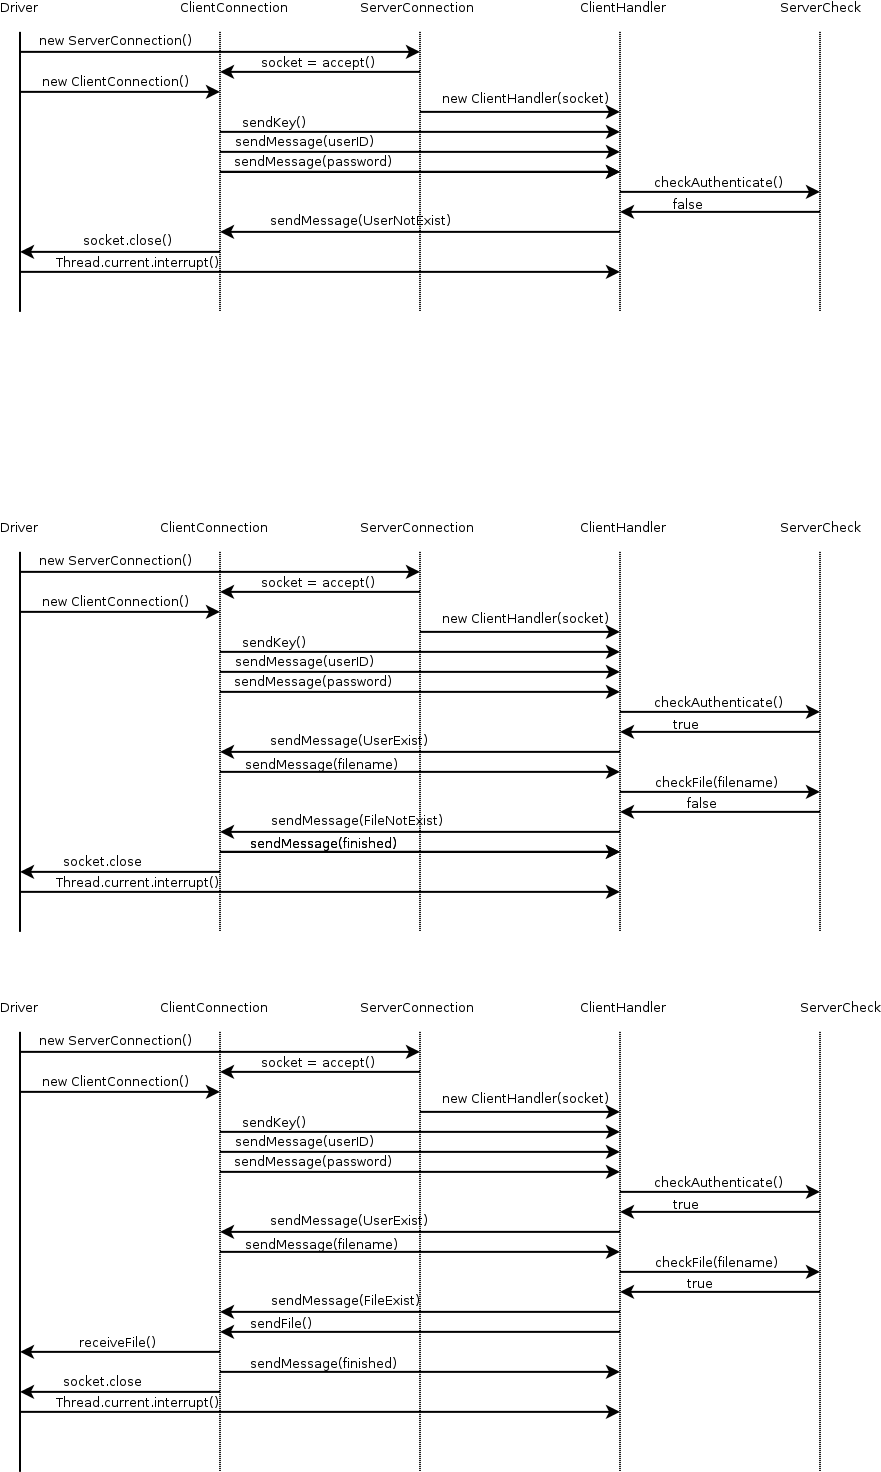
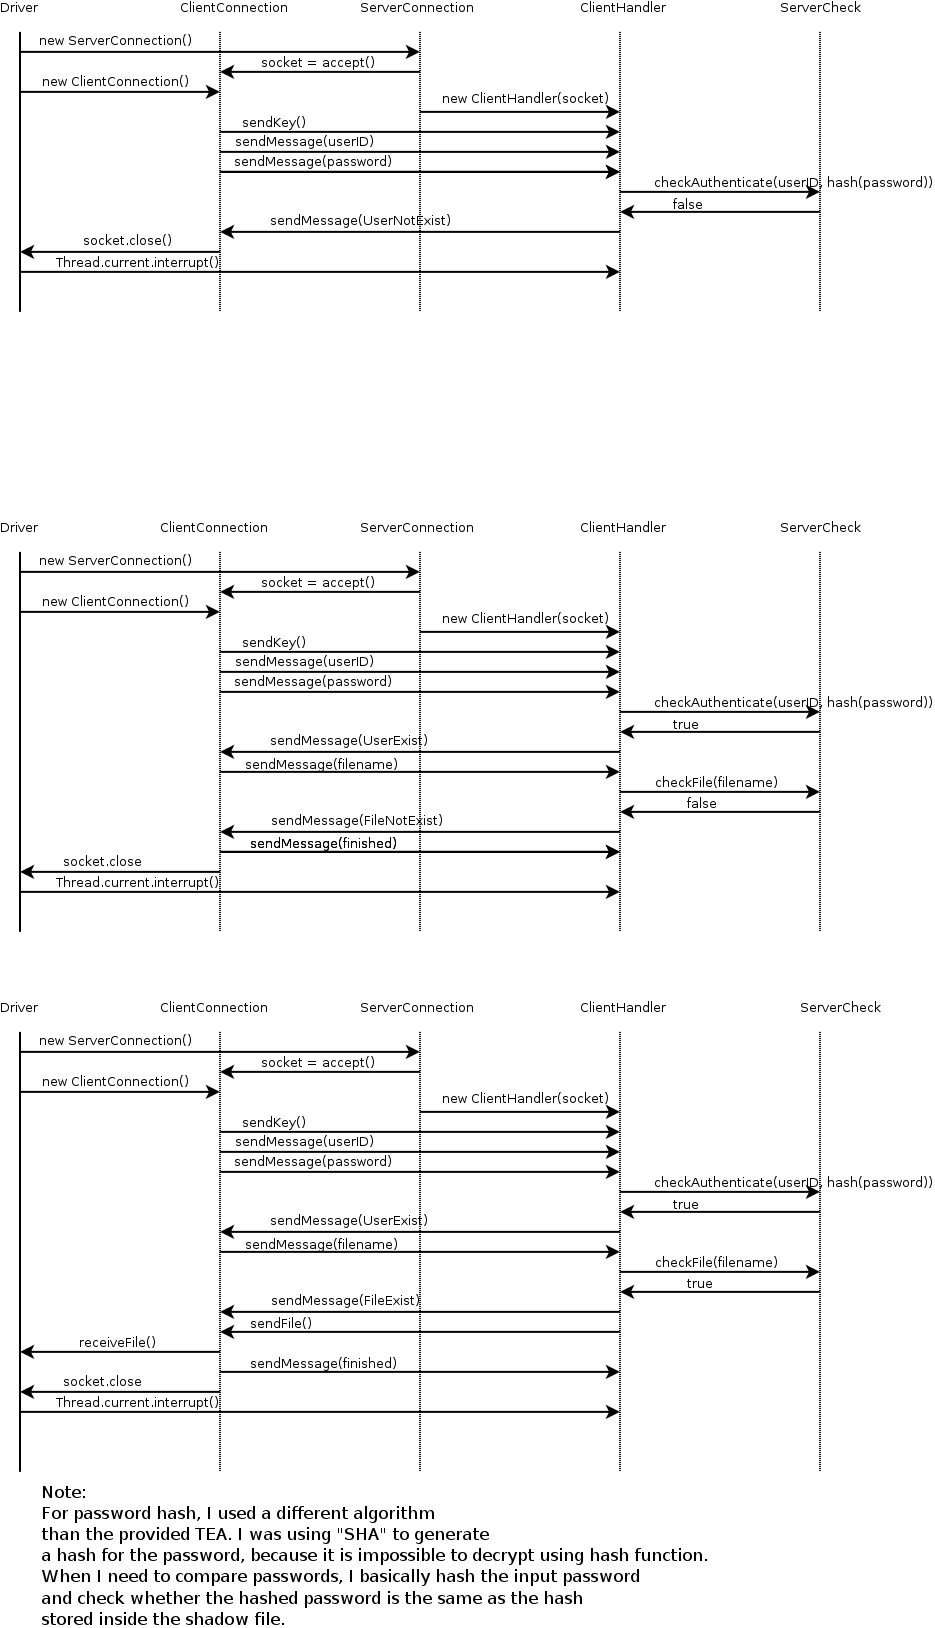
change design doc

diff --git a/src/ServerCheck.java b/src/ServerCheck.java
@@ -44,6 +44,7 @@ public class ServerCheck {
 		return false;
 	}
 	
+	//Reference http://www.quicklyjava.com/salt-in-java/
 	public String hash(String password){
 		String salt = "ECE422Project2SaltingString";
 		MessageDigest mg = null;
@@ -65,7 +66,7 @@ public class ServerCheck {
 		ServerCheck se = new ServerCheck();
 		String unenct = "abcde";
 		
-		boolean a = se.readShadowFile("tom", "abcde");
+		//boolean a = se.readShadowFile("tom", "abcde");
 		
 		String en = se.hash(unenct);
 		System.out.println("hash: "+ en);

diff --git a/src/Encrypt.java b/src/Encrypt.java
@@ -3,7 +3,6 @@ import java.security.NoSuchAlgorithmException;
 import java.util.Arrays;
 
 import javax.crypto.KeyGenerator;
-import javax.swing.plaf.synth.SynthSeparatorUI;
 
 public class Encrypt {
 	

diff --git a/src/Server.java b/src/Server.java
@@ -2,6 +2,7 @@ import java.net.Socket;
 
 public class Server {
 	
+	@SuppressWarnings("unused")
 	private Socket socket;
 	private ServerCheck check;
 	private Transmit transmit;
